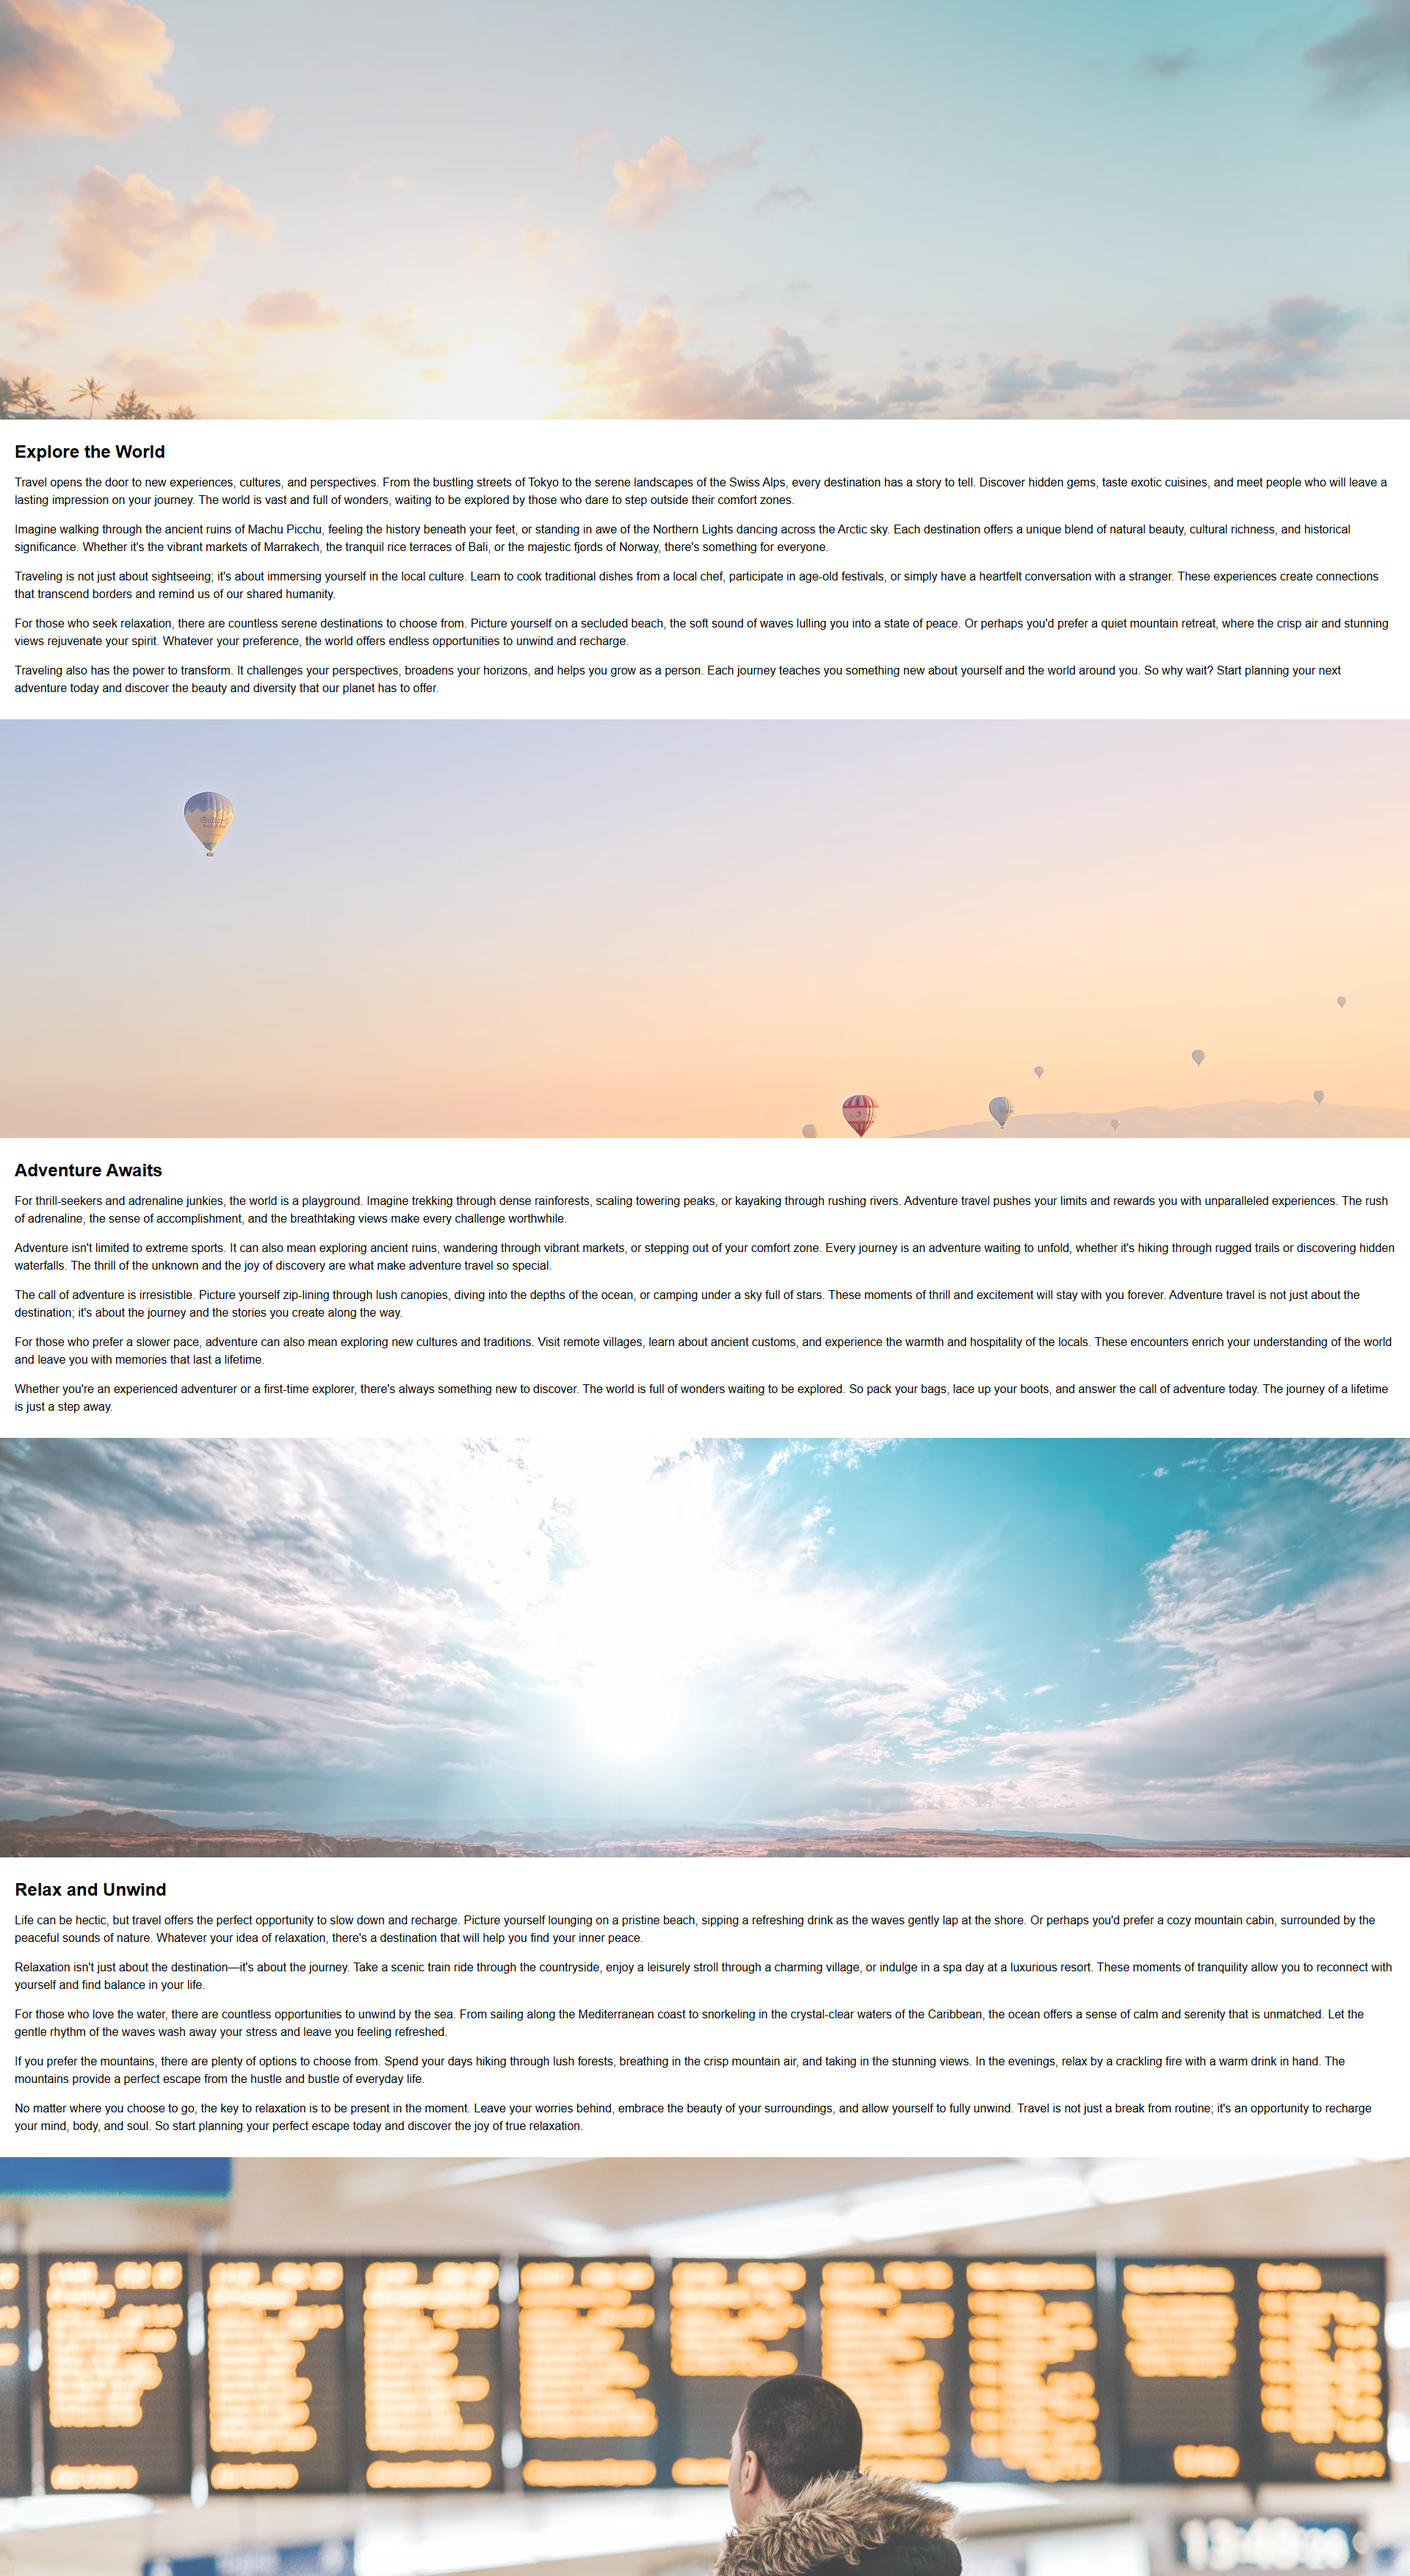
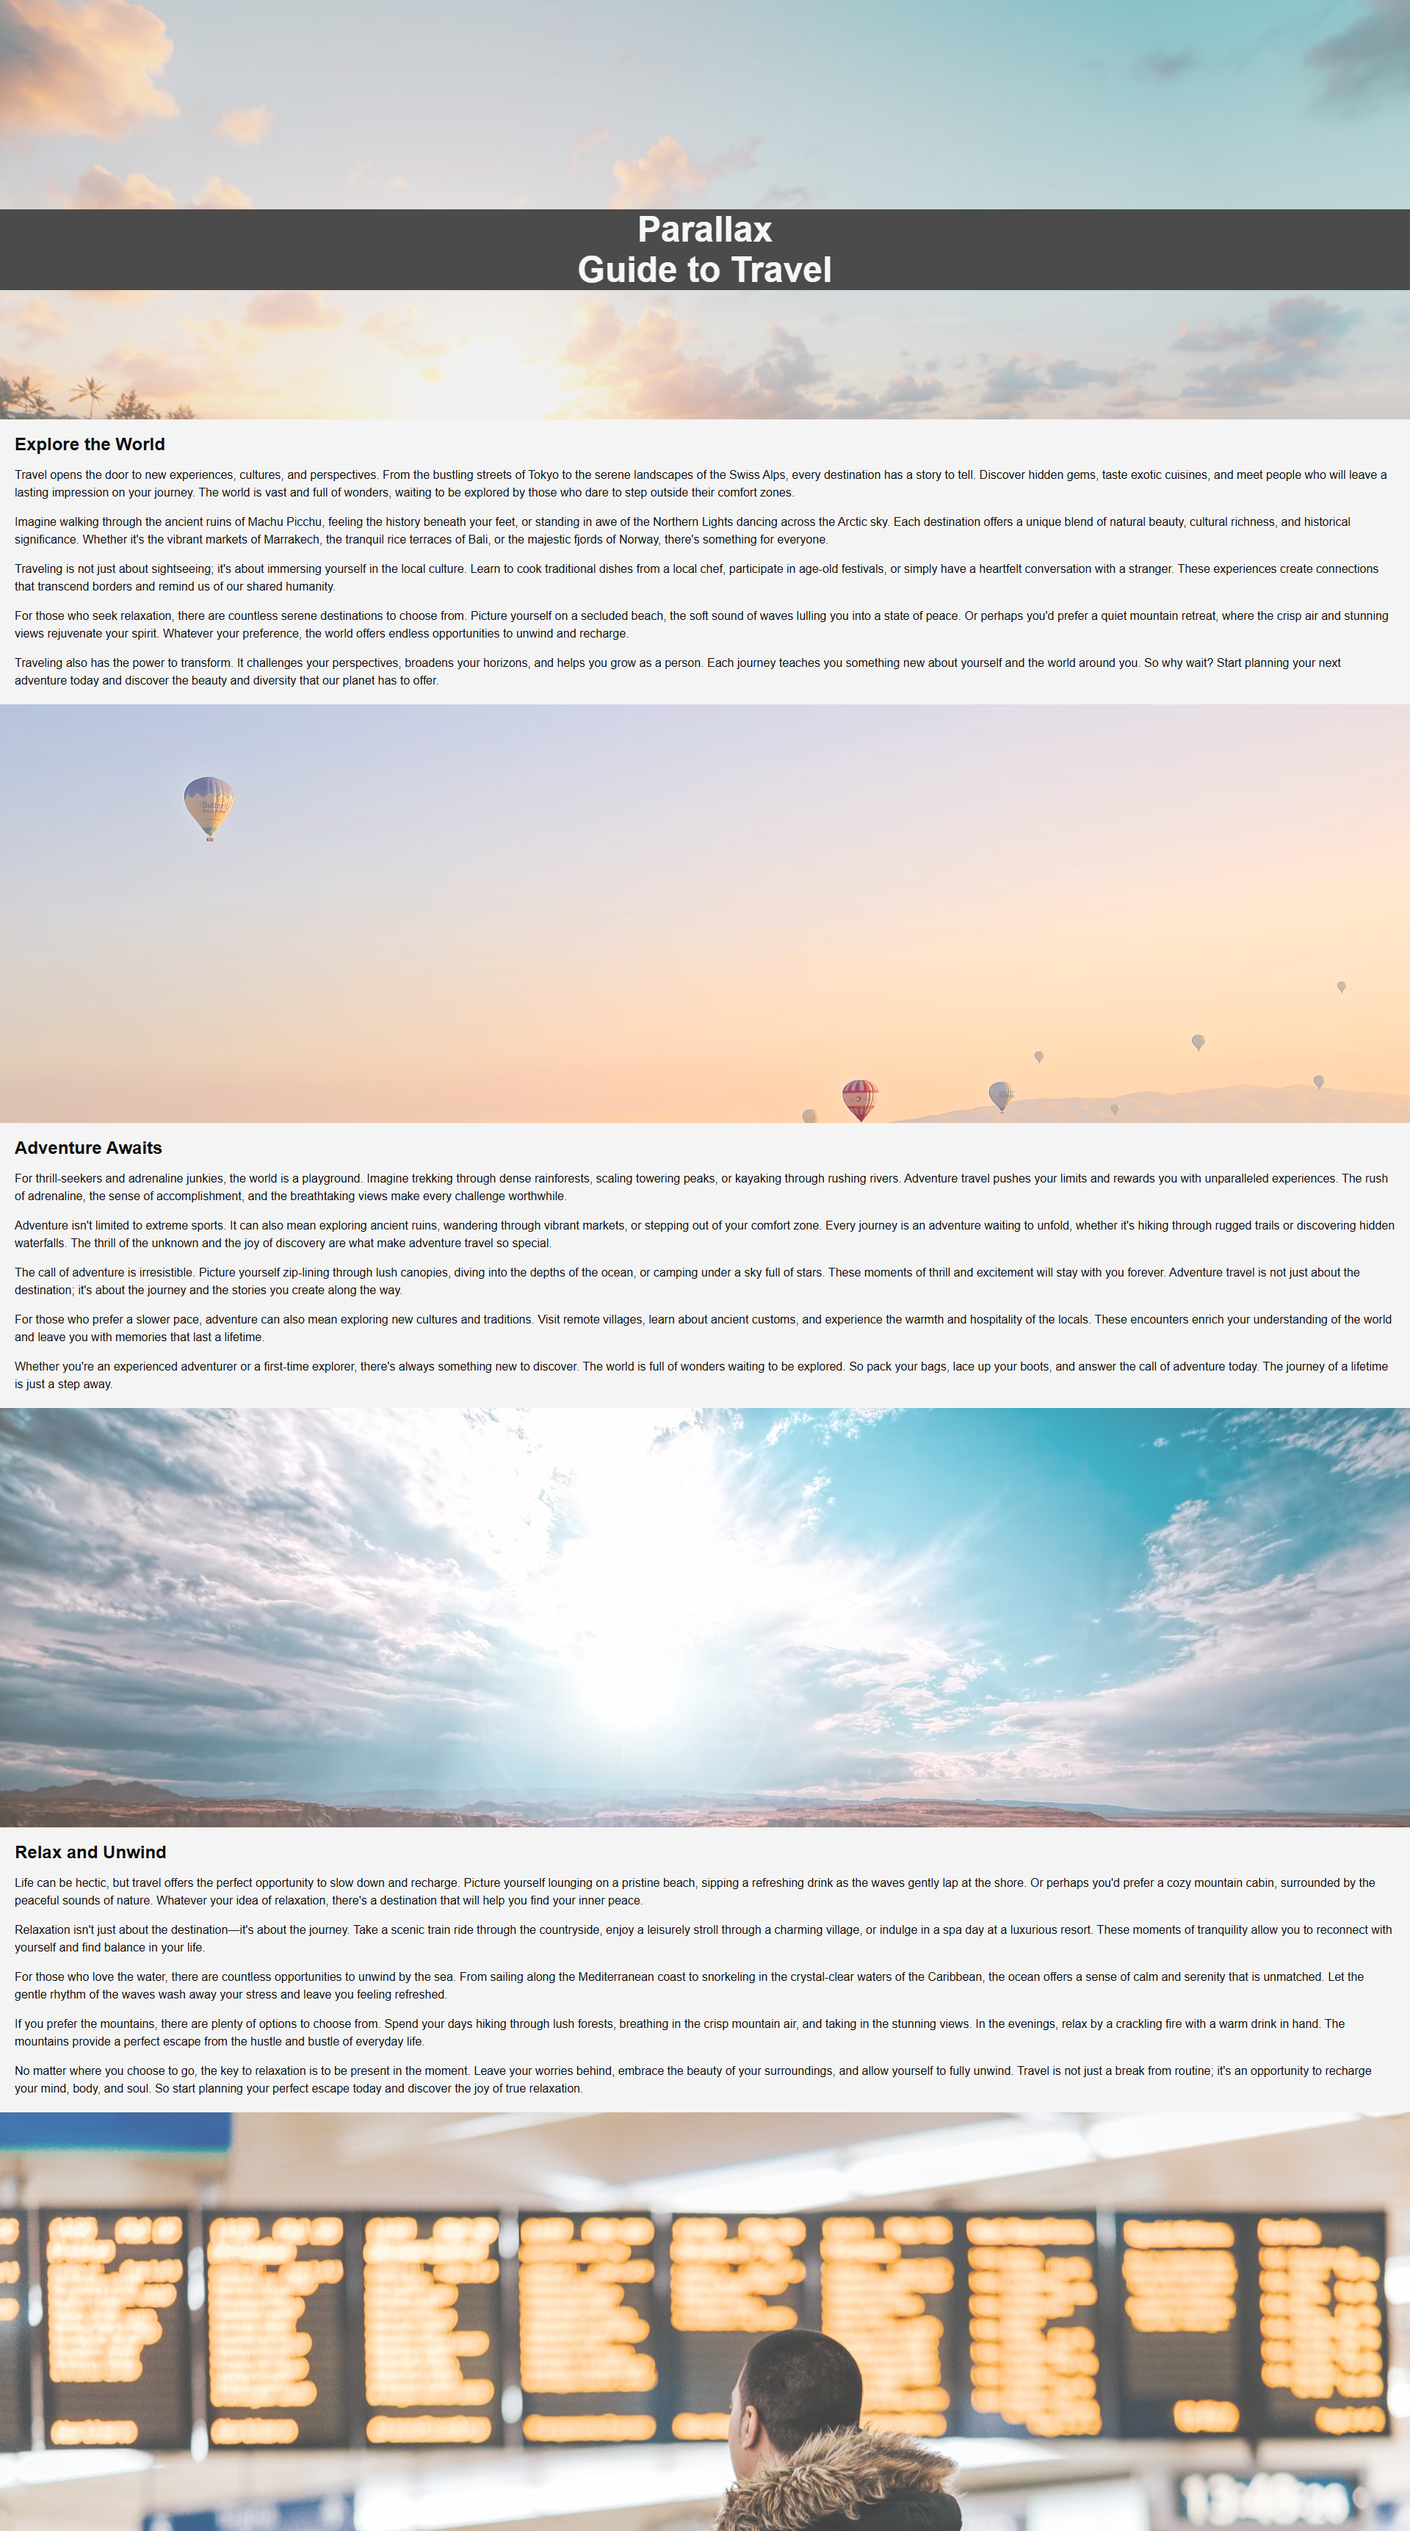
add more styling

diff --git a/style.css b/style.css
@@ -15,9 +15,8 @@ main {
 .content {
   font-family: Arial, sans-serif;
   padding: 20px;
-  background-color: transparent;
-  margin: 10px 0;
-  /* box-shadow: 0 4px 6px rgba(0, 0, 0, 0.1); */
+  background-color: #f4f4f4;
+  color: #0f0f0f;
 }
 h2 {
   margin-top: 0;
@@ -36,7 +35,9 @@ p{
 }
 #first{
     background: url(https://images.unsplash.com/photo-1507525428034-b723cf961d3e?q=80&w=2073&auto=format&fit=crop&ixlib=rb-4.0.3&ixid=M3wxMjA3fDB8MHxwaG90by1wYWdlfHx8fGVufDB8fHx8fA%3D%3D);
-    object-position: bottom;
+    /* align-content property now can be directly used on block elements to center them vertically */
+    align-content: center;
+    position: relative;
 }
 #second{
     background: url(https://images.unsplash.com/photo-1433838552652-f9a46b332c40?q=80&w=2070&auto=format&fit=crop&ixlib=rb-4.0.3&ixid=M3wxMjA3fDB8MHxwaG90by1wYWdlfHx8fGVufDB8fHx8fA%3D%3D);
@@ -46,4 +47,16 @@ p{
 }
 #forth{
     background: url(https://images.unsplash.com/photo-1522199873717-bc67b1a5e32b?q=80&w=2072&auto=format&fit=crop&ixlib=rb-4.0.3&ixid=M3wxMjA3fDB8MHxwaG90by1wYWdlfHx8fGVufDB8fHx8fA%3D%3D);
+}
+#first > h1{
+    font-family: Helvetica, sans-serif;
+    font-size: 3rem;
+    width: 100%;
+    /* height: fit-content; */
+    text-align: center;
+    background-color: #0f0f0f;
+    color: #f4f4f4;
+    position: absolute;
+    z-index: 99;
+    opacity: 1;
 }

diff --git a/index.html b/index.html
@@ -3,12 +3,14 @@
   <head>
     <meta charset="UTF-8" />
     <meta name="viewport" content="width=device-width, initial-scale=1.0" />
-    <title>Parallex website</title>
+    <title>Parallax Tour</title>
     <link rel="stylesheet" href="style.css">
   </head>
   <body>
     <main>
-      <div id="first" class="image"></div>
+      <div id="first" class="image">
+        <h1>Parallax <br>Guide to Travel</h1>
+      </div>
       <section class="content">
         <h2>Explore the World</h2>
         <p>
